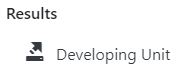
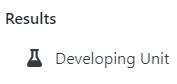
Small changes in user information section
- New image for describing the result section
  - Update main title of the information

Changed region(s): [[0.3107, 0.6053, 0.9605, 0.8421], [0.0282, 0.0789, 0.339, 0.2895], [0.1412, 0.5526, 0.2542, 0.8158]]

diff --git a/www/information.html b/www/information.html
@@ -1,4 +1,4 @@
-<h1 class="info_title">Repeatability / Intermediate precision</h1>
+<h1 class="info_title">Linearity</h1>
 <br>
 
 <h2 class="info_title">Objectives</h2>
